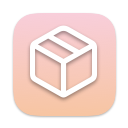
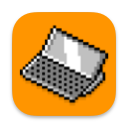
Update branding for Reconnect

diff --git a/docs/_layouts/default.html b/docs/_layouts/default.html
@@ -4,10 +4,11 @@
     <meta charset="utf-8">
     <meta name="viewport" content="width=device-width, initial-scale=1">
     <title>{{ site.title }}{% if page.title %} - {{ page.title }}{% endif %}</title>
-    {% if page.description %}<meta name="description" content="{{ page.description }}">{% endif %}
+    {% if site.description %}<meta name="description" content="{{ site.description }}">{% endif %}
     {% if site.author %}<meta name="author" content="{{ site.author }}">{% endif %}
     <link rel="stylesheet" href="/css/style.css">
     <meta property="og:title" content="{{ site.title }}{% if page.title %} - {{ page.title }}{% endif %}">
+    {% if site.description %}<meta property="og:description" content="{{ site.description }}">{% endif %}
 </head>
 <body>
     {% include navigation.html %}

diff --git a/docs/_includes/navigation.html b/docs/_includes/navigation.html
@@ -1,5 +1,5 @@
 <ul class="navigation">
-    <li><a href="/">Folders</a></li>
+    <li><a href="/">Reconnect</a></li>
     <li><a href="/release-notes">Release Notes</a></li>
-    <li><a href="https://github.com/inseven/folders">GitHub</a></li>
+    <li><a href="https://github.com/inseven/reconnect">GitHub</a></li>
 </ul>

diff --git a/docs/_includes/footer.html b/docs/_includes/footer.html
@@ -4,6 +4,7 @@
         <ul>
             <li><a href="/privacy-policy/">Privacy Policy</a></li>
             <li><a href="/license/">License</a></li>
+            <li><a target="_blank" href="https://jbmorley.co.uk/support/">Donate</a></li>
         </ul>
     </nav>
 </footer>

diff --git a/docs/css/style.css b/docs/css/style.css
@@ -1,6 +1,6 @@
 :root {
-    --tint-color: #f2bcb3;
-    --brand-color: #f2bcb3;
+    --tint-color: #ff9502;
+    --brand-color: #ff9502;
     --primary-foreground-color: #000000;
     --secondary-foreground-color: gray;
     --background-color: #ffffff;

diff --git a/docs/index.md b/docs/index.md
@@ -1,5 +1,4 @@
 ---
-title: About
 ---
 
 <p class="header">
@@ -7,8 +6,8 @@ title: About
          srcset="/images/icon_128x128.png, /images/icon_128x128@2x.png 2x"
          width="128"
          height="128" />
-    <div class="appname">Folders</div>
-    <div class="tagline">Offline library management for your files</div>
+    <div class="appname">Reconnect</div>
+    <div class="tagline">{{ site.description }}</div>
     <div class="actions">
         <a class="button" href="{{ site.env.DOWNLOAD_URL }}">Download</a>
     </div>
@@ -16,5 +15,5 @@ title: About
 
 <picture class="hero">
     <source srcset="/images/screenshot-default-dark@2x.png" media="(prefers-color-scheme: dark)">
-    <img class="hero" src="/images/screenshot-default@2x.png" width="872" />
+    <img class="hero" src="/images/screenshot-default@2x.png" width="1230" />
 </picture>

diff --git a/docs/privacy-policy/index.md b/docs/privacy-policy/index.md
@@ -4,6 +4,6 @@ title: Privacy Policy
 
 # Privacy Policy
 
-Folders does not collect or store any personal data.
+Reconnect does not collect or store any personal data.
 
 Should this policy change in the future, we will make all reasonable efforts to inform you and provide mechanisms to opt-out.
